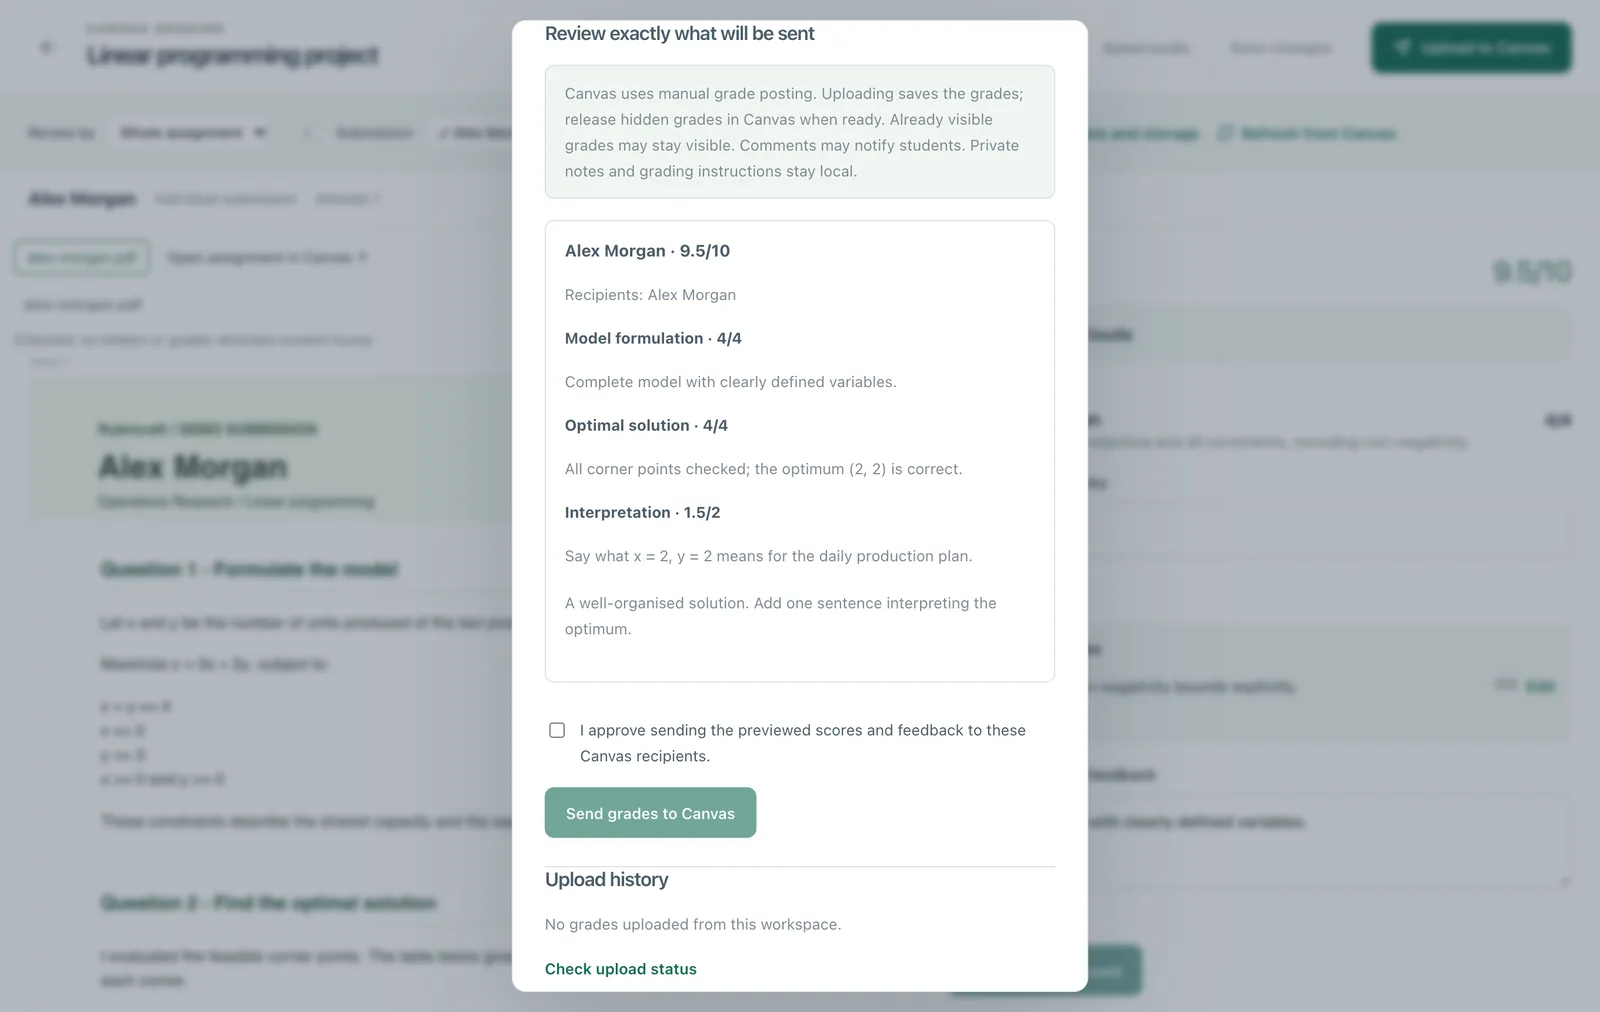
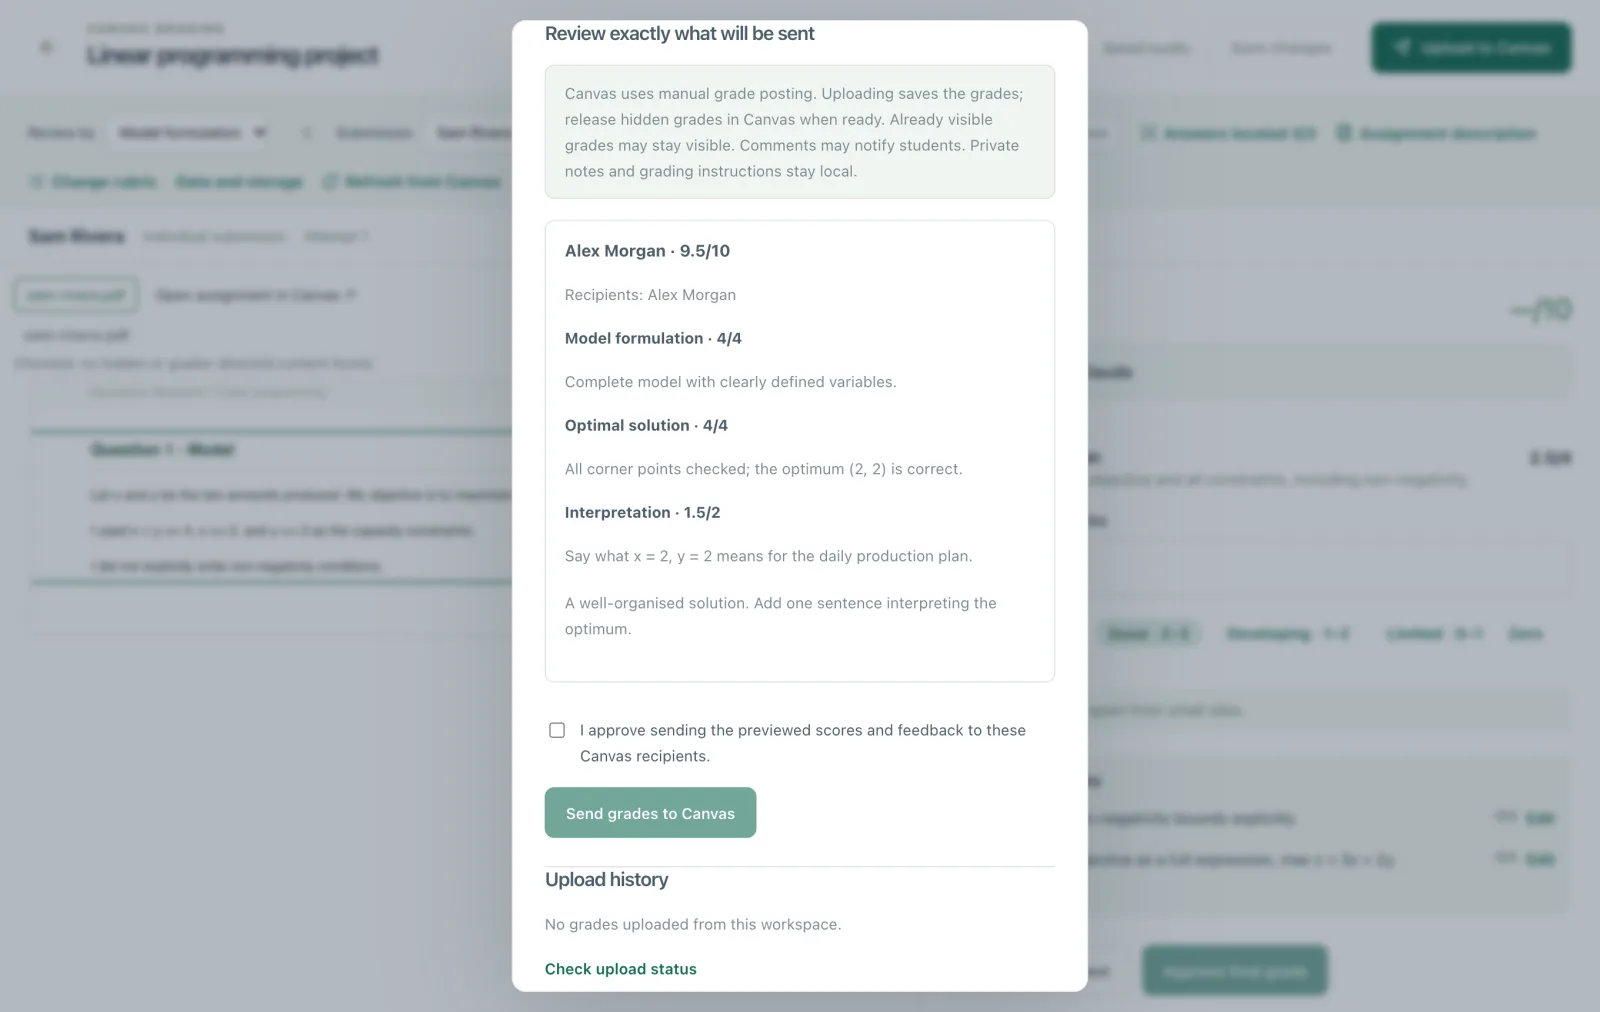
Website: levels, located answers, Canvas rubric editing, Word documents; new screenshots

diff --git a/index.html b/index.html
@@ -126,16 +126,47 @@
             <h3>One rubric item at a time</h3>
             <p>
               Go through every student on the same question or rubric item, so
-              the same standard applies to everyone.
+              the same standard applies to everyone. Claude can find where each
+              student answered it, and Rubricraft cuts out just that part, so
+              you can score every student's answer in a row.
+            </p>
+          </li>
+          <li>
+            <h3>Levels set the judgement</h3>
+            <p>
+              Choose the rubric level that fits the answer, such as Excellent,
+              Good or Developing. That sets the starting score, and Canvas
+              receives the level with the grade.
             </p>
           </li>
           <li>
             <h3>Reusable remarks with points</h3>
             <p>
               Write a remark once, such as “State the non-negativity bounds,
-              −0.5”, and apply it to every answer with the same issue. Change
-              its wording or points later and every student who has it is
-              updated, and marked for you to check again.
+              −0.5”, and apply it to every answer with the same issue. Remarks
+              add or take away points from the chosen level, within its range.
+              If they would take the score outside it, you are warned to move
+              the answer to another level. Change a remark's wording or points
+              later and every student who has it is updated, and marked for you
+              to check again.
+            </p>
+          </li>
+          <li>
+            <h3>Edit the Canvas rubric while you grade</h3>
+            <p>
+              Found a missing rubric item halfway through? Add, edit or remove
+              items and their levels from the grading screen, and Rubricraft
+              updates the rubric in Canvas. Every change is previewed, with the
+              new total and the scores it affects, before Canvas is touched.
+            </p>
+          </li>
+          <li>
+            <h3>PDF and Word submissions</h3>
+            <p>
+              Typed and handwritten PDFs, scans turned upright, and Word
+              documents, all read on your computer. Excel workbooks come in the
+              next release. Rubricraft warns you about text a reader would not
+              see, such as hidden or white text.
             </p>
           </li>
           <li>
@@ -163,14 +194,44 @@
             src="assets/screenshots/grading.webp"
             width="1600"
             height="1012"
-            alt="Grading view: a student's PDF answer on the left and the rubric on the right, with a score, a reusable remark and feedback for each rubric item."
+            alt="Grading one rubric item: the part of a student's PDF that answers it, cut out on the left; on the right, the levels Excellent, Good, Developing and Limited with Good chosen, and a reusable remark deducting half a point."
           />
           <figcaption>
-            <strong>The work and the rubric, side by side.</strong> Score each
-            rubric item, reuse remarks across students, and ask Claude for a
-            draft when you want one.
+            <strong>Choose the level, then fine-tune.</strong> The student's
+            answer to the rubric item, cut out of the PDF. The level sets the
+            score, and reusable remarks adjust it within that level's range.
           </figcaption>
         </figure>
+        <div class="screen-pair">
+          <figure class="screen">
+            <img
+              src="assets/screenshots/answers.webp"
+              width="1600"
+              height="1012"
+              alt="All three students' answers to the same rubric item stacked one below the other, each cut out of its PDF with a score and level buttons beside it."
+              loading="lazy"
+            />
+            <figcaption>
+              <strong>Every student's answer in a row.</strong> Claude finds
+              where each student answered a rubric item, so you can score the
+              same question for the whole class.
+            </figcaption>
+          </figure>
+          <figure class="screen">
+            <img
+              src="assets/screenshots/rubric.webp"
+              width="1600"
+              height="1012"
+              alt="Editing a Canvas rubric item: new points and the levels Excellent, Good, Developing and Limited, with a preview of the new assignment total before Canvas is changed."
+              loading="lazy"
+            />
+            <figcaption>
+              <strong>Edit the Canvas rubric while you grade.</strong> Add, edit
+              or remove rubric items and their levels. The preview shows the new
+              total and the scores affected before Canvas is changed.
+            </figcaption>
+          </figure>
+        </div>
         <div class="screen-pair">
           <figure class="screen">
             <img
@@ -384,29 +445,30 @@
           <details>
             <summary>What if a submission tries to instruct the AI?</summary>
             <p>
-              Rubricraft flags text in a PDF that a reader cannot see, or that
-              is addressed to an AI grader, and shows it to you above the PDF.
-              It is a prompt to look closer, not proof of misconduct, and it
-              cannot catch everything. That is one reason AI only ever drafts
-              and you approve every grade.
+              Rubricraft flags text in a PDF or Word document that a reader
+              cannot see, or that is addressed to an AI grader, and shows it to
+              you above the submission. It is a prompt to look closer, not proof
+              of misconduct, and it cannot catch everything. That is one reason
+              AI only ever drafts and you approve every grade.
             </p>
           </details>
           <details>
             <summary>Can I continue grading I started in Canvas?</summary>
             <p>
-              Yes. Rubric scores and comments already in Canvas are brought
-              into Rubricraft for every submission you have not graded there
-              yet, and nothing you have graded is overwritten. Finish the
-              remaining submissions by hand or with AI drafts, or revisit
-              earlier ones.
+              Yes. Rubric scores and comments already in Canvas are brought into
+              Rubricraft for every submission you have not graded there yet, and
+              nothing you have graded is overwritten. Finish the remaining
+              submissions by hand or with AI drafts, or revisit earlier ones.
             </p>
           </details>
           <details>
             <summary>When can I try it?</summary>
             <p>
               Now: <a class="text-link" href="#beta">download the beta</a>. It
-              covers course and assignment browsing, submission downloads,
-              review by rubric item, optional Claude drafts, and sending
+              covers course and assignment browsing, submission downloads (PDF
+              and Word), locating each student's answer to a rubric item, review
+              by rubric item with levels and reusable remarks, changing the
+              rubric while you grade, optional Claude drafts, and sending
               approved grades back to Canvas. Still in development: grading by
               conversation, class-wide feedback for the teacher, and linking
               grading to the course learning outcomes, which you can already
